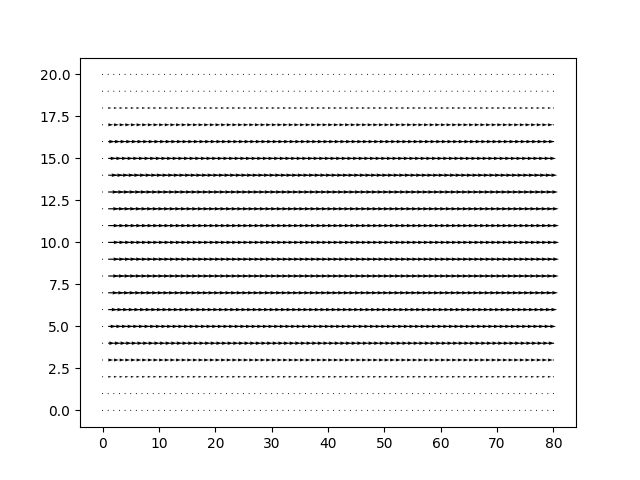
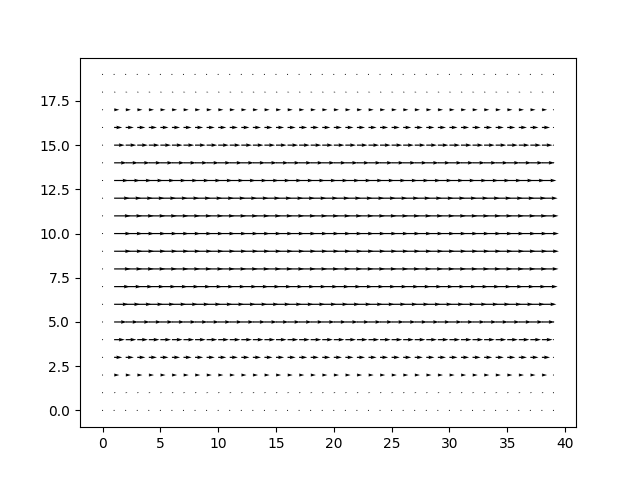
Commit 1 3feb

diff --git a/Poiseuille_vel_temp.py b/Poiseuille_vel_temp.py
@@ -9,20 +9,25 @@ np.set_printoptions(threshold=sys.maxsize)
 pd.set_option("display.max_rows", None, "display.max_columns", None)
 
 # Define constants
-# Physical parameters
-
-# Grid and time steps
-N_x = 40        # lattice nodes in the x-direction
-N_y = 20        # lattice nodes in the x-direction
-N_t = 2000       # time steps
+# Dimensionless numbers
+Re = 25
 
 # Simulation parameters
 dx = 1          # simulation length
 dt = 1          # simulation time
+u_max = 0.2     #
+
 c_s = (1 / np.sqrt(3)) * (dx / dt)  # speed of sound
 q = 9                               # number of directions
 tau = 0.9
 alpha = 0.1
+
+nu = c_s**2 * (tau - dt / 2)
+
+# Grid and time steps
+N_y = np.int(np.rint(Re * nu / u_max))  # lattice nodes in the y-direction
+N_x = 40                               # lattice nodes in the x-direction
+N_t = 1000       # time steps
 
 # D2Q9 lattice constants
 c_i = np.array([[0, 0], [1, 0], [0, 1], [-1, 0], [0, -1], [1, 1], [-1, 1], [-1, -1], [1, -1]], dtype=np.int)
@@ -30,14 +35,22 @@ c_opp = np.array([0, 3, 4, 1, 2, 7, 8, 5, 6], dtype=np.int)
 w_i = np.array([4/9, 1/9, 1/9, 1/9, 1/9, 1/36, 1/36, 1/36, 1/36])
 
 # Physical constants
-L = 0.2     # length of pipe
-H = 0.2     # height of pipe
-nu = c_s**2 * (tau - dt / 2)
-F_pressure = 0.001 * w_i * np.array([0, 1, 0, -1, 0, 1, -1, -1, 1])
-g = 0.001 * w_i * np.array([0, 0, -1, 0, 1, -1, -1, 1, 1])
+L = 0.2         # length of pipe
+H = 0.2         # height of pipe
+g_p = 9.81      # gravity
+F_pressure = 0.02 * w_i * np.array([0, 1, 0, -1, 0, 1, -1, -1, 1])
+
+nu_p = 1e-6     # Kinematic viscosity
+
+dx_p = H / N_y
+dt_p = c_s**2 * (tau - 1 / 2) * dx_p**2 / nu_p
 
 # Conversion factors
-Cy = 0.2 / N_y
+Cy = dx_p
+Cu = dx_p / dt_p
+Cg = dx_p / dt_p**2
+# Forces
+g = Cg * g_p * w_i * np.array([0, 0, -1, 0, 1, -1, -1, 1, 1]) * 0
 
 # Initial conditions
 ux = np.zeros((N_x, N_y))       # Simulation velocity in x direction
@@ -46,8 +59,17 @@ rho = np.ones((N_x, N_y))       # Simulation density
 T_dim = np.zeros((N_x, N_y))    # Dimensionless simulation temperature
 
 # Temperature BCS
-T_BC_upper = np.ones(N_x) * -0.001
-T_BC_lower = np.ones(N_x) * 0.001
+beta_p = 210e-6
+T0 = 293
+T_up_p = 289
+T_down_p = 297
+T_BC_upper = np.ones(N_x) * beta_p * (T_up_p - T0)
+T_BC_lower = np.ones(N_x) * beta_p * (T_down_p - T0)
+
+
+for node in range(len(T_BC_upper)):
+    if node <= len(T_BC_upper)/2:
+        T_BC_lower[node] *= -1
 
 
 # Create boundary mask
@@ -61,7 +83,7 @@ def pipe_boundary(N_x, N_y):
 
 
 @jit
-def f_equilibrium(w_i, rho, ux, uy, c_i, q, c_s, F_pressure):
+def f_equilibrium(w_i, rho, ux, uy, c_i, q, c_s):
     f_eq = np.zeros((N_x, N_y, q))
     u_dot_c = np.zeros((N_x, N_y, q))
 
@@ -69,7 +91,7 @@ def f_equilibrium(w_i, rho, ux, uy, c_i, q, c_s, F_pressure):
     for i in range(q):
         u_dot_c[:, :, i] = ux * c_i[i, 0] + uy * c_i[i, 1]
         inner = 1 + (u_dot_c[:, :, i] / c_s**2) + (u_dot_c[:, :, i]**2 / (2 * c_s**4)) - (u_dot_u / (2 * c_s**2))
-        f_eq[:, :, i] = w_i[i] * rho * inner + F_pressure[i]
+        f_eq[:, :, i] = w_i[i] * rho * inner
 
     return f_eq
 
@@ -102,7 +124,7 @@ T_dim[:, -1] = T_BC_upper
 bounds = pipe_boundary(N_x, N_y)
 
 # Initialize equilibrium function
-f_eq = f_equilibrium(w_i, rho, ux, uy, c_i, q, c_s, F_pressure)
+f_eq = f_equilibrium(w_i, rho, ux, uy, c_i, q, c_s)
 f_i = np.copy(f_eq)
 
 for t in range(N_t):
@@ -114,6 +136,9 @@ for t in range(N_t):
     # Calculate new T
     T_dim = temperature(T_dim, alpha, dx, ux, uy, T_BC_lower, T_BC_upper)
 
+    # Buoyancy force
+    F_buoy = T_dim[:, :, None] * g
+
     # View np.array
     idx = ["idx" for i in T_dim[1, :]]
     col = ["col" for j in T_dim[:, 1]]
@@ -121,10 +146,10 @@ for t in range(N_t):
     # print(dataset)
 
     # Calculate equilibrium distribution
-    f_eq = f_equilibrium(w_i, rho, ux, uy, c_i, q, c_s, F_pressure)
+    f_eq = f_equilibrium(w_i, rho, ux, uy, c_i, q, c_s)
 
     ### Collision step
-    f_star = f_i * (1 - dt / tau) + f_eq * dt / tau
+    f_star = f_i * (1 - dt / tau) + f_eq * dt / tau + dt * F_pressure + dt * F_buoy
 
     # Periodic boundary conditions
     f_star[0, :, 1] = f_star[-2, :, 1]
@@ -158,7 +183,7 @@ for t in range(N_t):
                 f_i[i, j, 5] = f_star[i, j, 7]
                 f_i[i, j, 6] = f_star[i, j, 8]
 
-    if t in [1999]:
+    if t in [999]:
         r = np.linspace(-N_y/2, N_y/2, num=N_y)
         r[0] = r[0] + (r[1] - r[0]) / 2
         r[-1] = r[-1] + (r[-2] - r[-1]) / 2
@@ -167,41 +192,54 @@ for t in range(N_t):
         u_max = np.amax(ux[np.int(np.rint(N_x / 2)), 1:N_y])
         u_th = u_max * (1 - r_phys**2 / R**2)
 
-        # ## Line plot
-        # plt.figure(0)
-        # plt.plot(ux[np.int(np.rint(N_x / 2)), :], r_phys)
-        # plt.plot(u_th, r_phys, 'o')
-        # plt.savefig("Figures/Pois_temp/lineplot_temp" + str(t / 100) + ".png")
-        #
-        # ## Vector plot
-        # plt.figure(1)
-        # plt.quiver(ux.T, uy.T)
-        # plt.savefig("Figures/Pois_temp/arrowplot_temp" + str(t / 100) + ".png")
+        ## Line plot
+        plt.figure(np.int(t/200))
+        plt.plot(ux[np.int(np.rint(N_x / 2)), :], r_phys)
+        plt.plot(u_th, r_phys, 'o')
+        plt.title('Velocity profile of simple Poiseuille flow.')
+        plt.xlabel('$u$ (m/s)')
+        plt.ylabel('$r$ (m)')
+        plt.savefig("Figures/Pois_temp/lineplot_temp" + str(t) + ".png")
 
+        # ## Vector plot
+        # plt.figure(np.int(t/200))
+        # plt.quiver(ux.T, uy.T)
+        # plt.xlabel('$x$ (# lattice nodes)')
+        # plt.ylabel('$y$ (# lattice nodes)')
+        # plt.title('Velocity profile in pipe with hot plate for $x < L/2$ and cold plate for $x > L/2$. \n $p>0$')
+        # # plt.legend('Velocity vector')
+        # plt.savefig("Figures/Pois_temp/arrowplot_temp" + str(t) + ".png")
+        #
         # ## Heatmaps
         # plt.figure(2)
         # plt.clf()
         # plt.imshow(ux.T, cmap=cm.Blues)
         # plt.colorbar()
-        # plt.savefig("Figures/Pois_temp/heatmapx_temp" + str(t / 100) + ".png")
-        #
+        # plt.savefig("Figures/Pois_temp/heatmapx_temp" + str(t) + ".png")
+        # #
         # plt.figure(3)
         # plt.clf()
         # plt.imshow(np.flip(uy, axis=1).T, cmap=cm.Blues)
         # plt.colorbar()
-        # plt.savefig("Figures/Pois_temp/heatmapy_temp" + str(t / 100) + ".png")
+        # plt.savefig("Figures/Pois_temp/heatmap_uy_temp" + str(t) + ".png")
+        #
+        # ## Temperature heatmap
+        # plt.figure(4)
+        # plt.clf()
+        # plt.imshow(np.flip(T_dim, axis=1).T, cmap=cm.Blues)
+        # plt.colorbar()
+        # plt.savefig("Figures/Pois_temp/heatmap_T" + str(t / 100) + ".png")
 
-        ## Temperature heatmap
-        plt.figure(4)
-        plt.clf()
-        plt.imshow(np.flip(T_dim, axis=1).T, cmap=cm.Blues)
-        plt.colorbar()
-        plt.savefig("Figures/Pois_temp/heatmap_T" + str(t / 100) + ".png")
-
-        ## Line plot
-        plt.figure(5)
-        plt.plot(T_dim[np.int(np.rint(N_x / 2)), :], r_phys)
-        plt.savefig("Figures/Pois_temp/lineplot_T" + str(t / 100) + ".png")
+        # ## Line plot
+        # plt.figure(5)
+        # r = np.linspace(-N_y/2, N_y/2, num=N_y)
+        # r_phys = r*Cy
+        # T_phys = T_dim / beta_p + T0
+        # plt.xlabel('$T$ (K)')
+        # plt.ylabel('$r$ (m)')
+        # plt.title('Temperature conduction in pipe with hot $(r=-R)$ and cold boundary $(r=R)$.\n No buoyancy.')
+        # plt.plot(T_phys[np.int(np.rint(N_x / 2)), :], r_phys)
+        # plt.savefig("Figures/Pois_temp/lineplot_T" + str(t / 100) + ".png")
 
 # plt.plot(ux_ana, r_phys)
 # plt.show()

diff --git a/Poiseuille_velocity.py b/Poiseuille_velocity.py
@@ -8,8 +8,8 @@ np.set_printoptions(threshold=sys.maxsize)
 
 # Define constants
 # Grid and time steps
-N_x = 81        # lattice nodes in the x-direction
-N_y = 21        # lattice nodes in the x-direction
+N_x = 40        # lattice nodes in the x-direction
+N_y = 20        # lattice nodes in the x-direction
 N_t = 1000       # time steps
 
 # Simulation parameters
@@ -20,25 +20,30 @@ dt = 1          # simulation time
 c_s = (1 / np.sqrt(3)) * (dx / dt)  # speed of sound
 q = 9                               # number of directions
 
-# Material simulation constants
-tau = 0.9
+tau = 0.7
+nu = c_s**2 * (tau - dt / 2)
 
 # D2Q9 lattice constants
 c_i = np.array([[0, 0], [1, 0], [0, 1], [-1, 0], [0, -1], [1, 1], [-1, 1], [-1, -1], [1, -1]], dtype=np.int)
 c_opp = np.array([0, 3, 4, 1, 2, 7, 8, 5, 6], dtype=np.int)
 w_i = np.array([4/9, 1/9, 1/9, 1/9, 1/9, 1/36, 1/36, 1/36, 1/36])
 
-# Physical constants
-L = 0.2     # length of pipe
-H = 0.2     # height of pipe
-T = 20
-nu = c_s**2 * (tau - dt / 2)
 F = 0.001 * w_i * np.array([0, 1, 0, -1, 0, 1, -1, -1, 1])
 
+# Physical constants
+L = 0.2     # length of pipe
+H = 0.1     # height of pipe
+T = 2       # Time
+nu_p = 1e-6 # Kinematic viscosity
+
+dx_p = H / N_y
+dt_p = c_s**2 * (tau - 1 / 2) * dx_p**2 / nu_p
+
 # Conversion factors
-Cx = H / N_x
-Cy = L / N_y
+Cy = dx_p
 Ct = T / N_t
+Cu = dx_p / dt_p
+print(Cu)
 
 # Initial conditions
 u_x = np.zeros((N_x, N_y))
@@ -131,9 +136,10 @@ for t in range(N_t):
 
         ## Line plot
         plt.figure(0)
-        plt.plot(u_x[np.int(np.rint(N_x/2)), :], r_phys)
+        plt.plot(Cu*u_x[np.int(np.rint(N_x/2)), :], r_phys)
         # plt.plot(u_x[1, :], r_phys)
-        plt.plot(u_th, r_phys, 'o')
+        plt.plot(Cu*u_th, r_phys, 'o')
+        plt.legend
         plt.savefig("Figures/Pois_test/lineplot" + str(t / 100) + ".png")
 
         ## Vector plot
